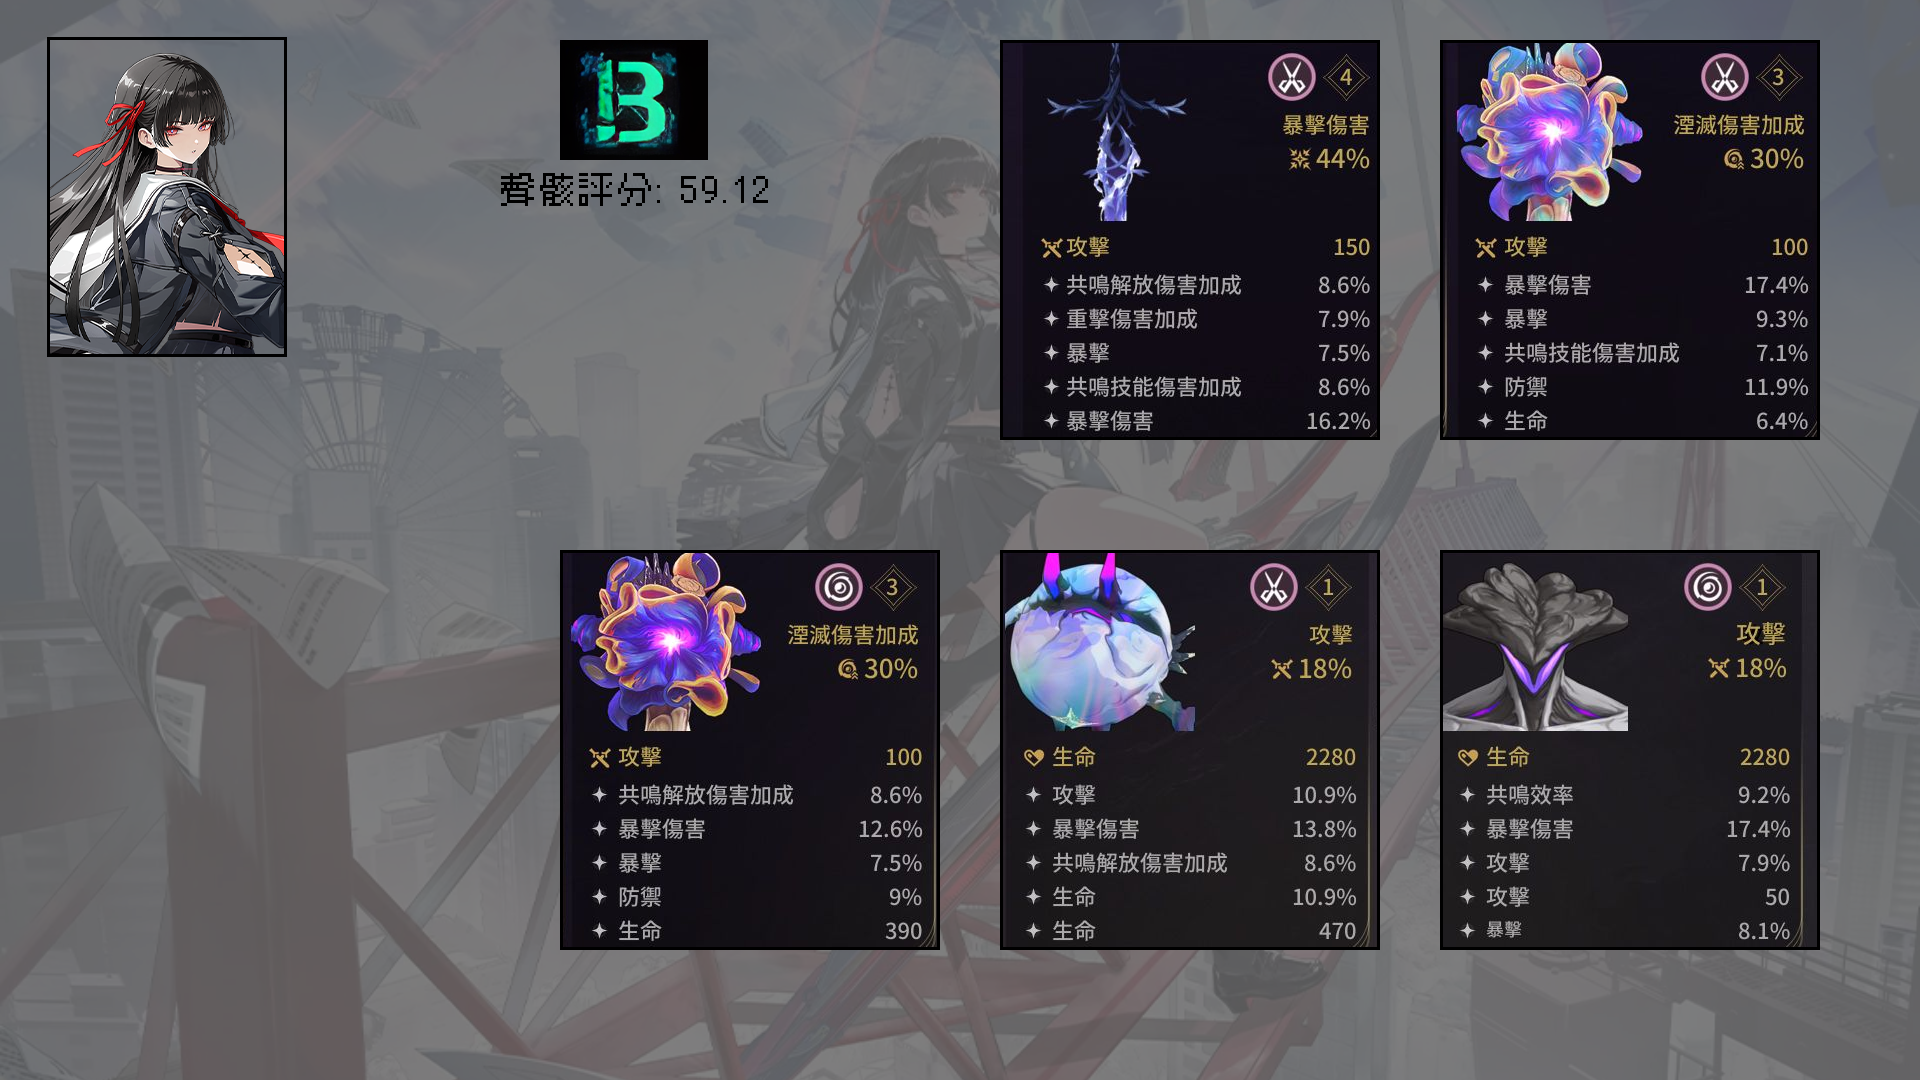
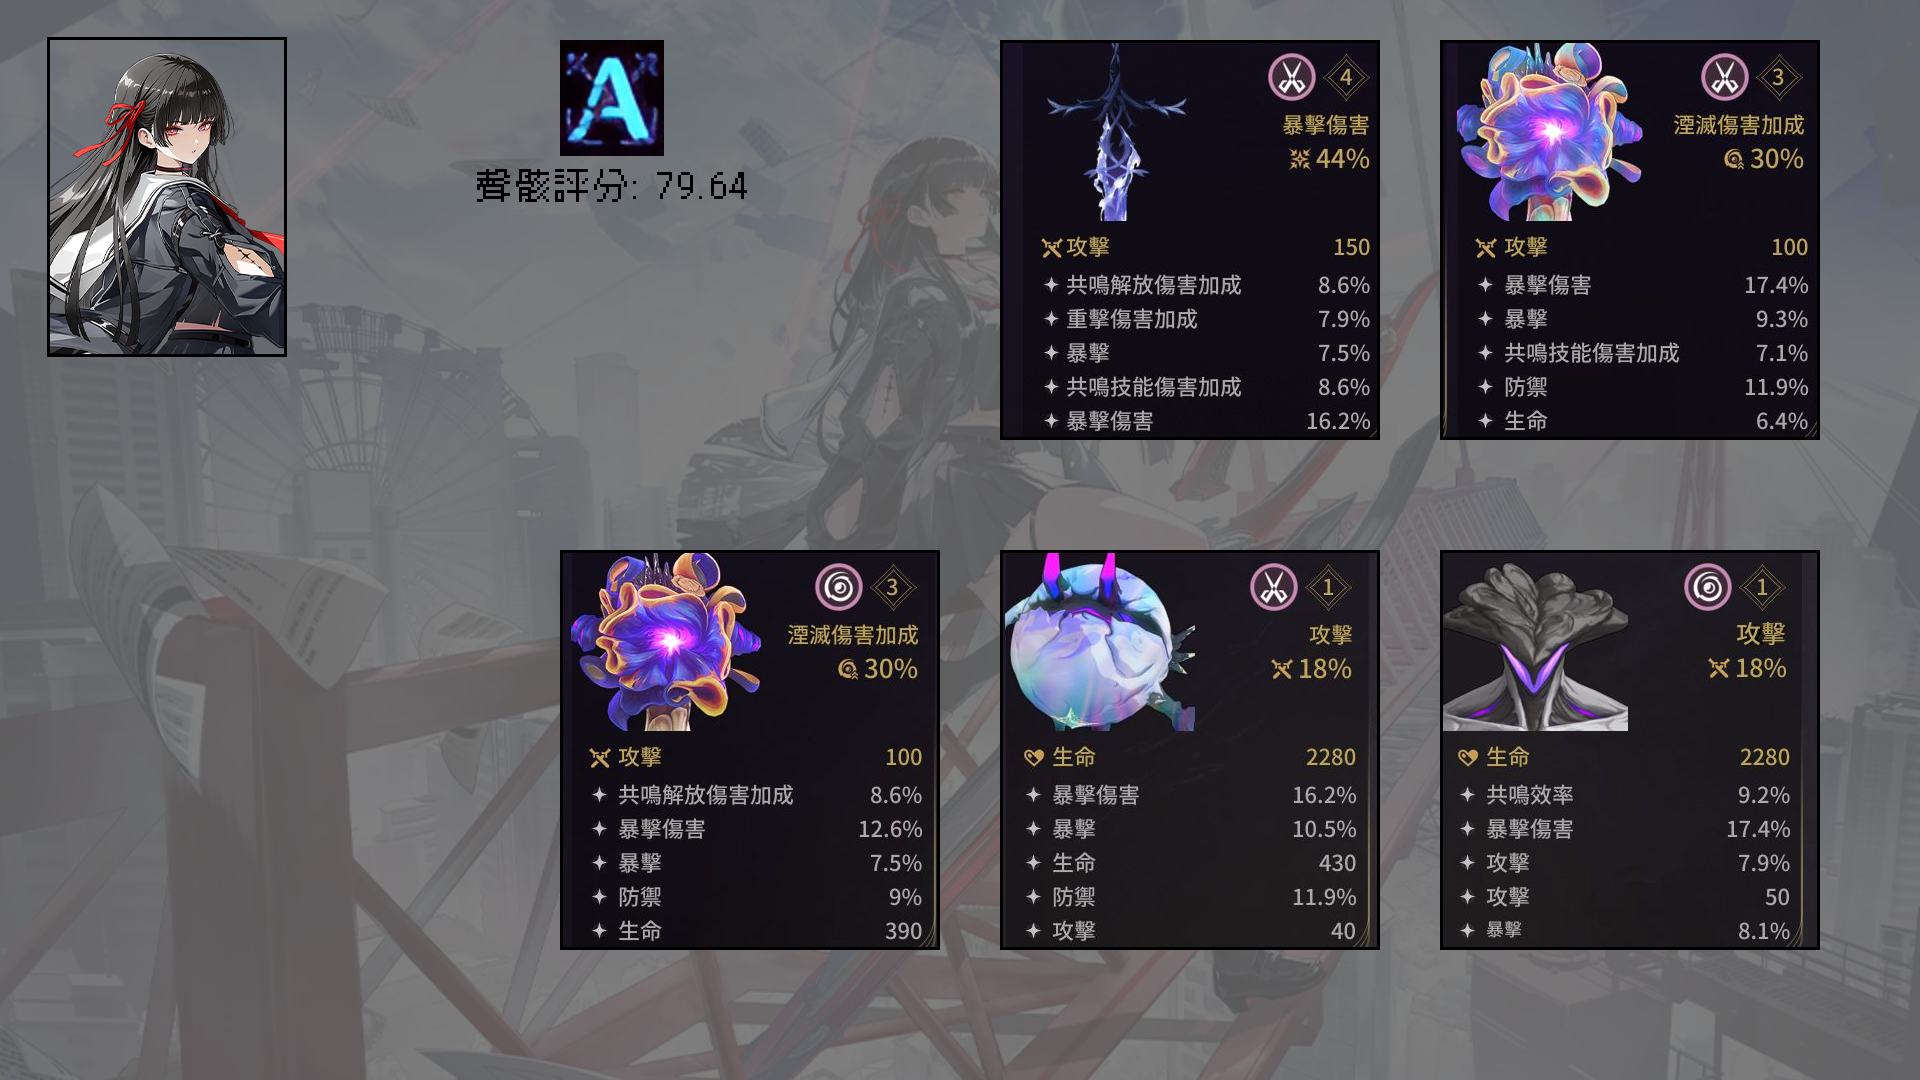
feat: 調整權種數值，拉開攻擊% 與攻擊的差距

diff --git a/backend/parsers/ocr_parser.py b/backend/parsers/ocr_parser.py
@@ -12,12 +12,21 @@ class EchoData:
     static_stat: Stat = field(default_factory=Stat)
     sub_stat: List[Stat] = field(default_factory=list)
 
+
+VALID_STATS = ["暴擊傷害", "暴擊", "攻擊", "生命", "防禦", "共鳴效率", "普攻傷害加成", "共鳴解放傷害加成", "重擊傷害加成", "共鳴技能傷害加成"]
+def normalize(text):
+    for stat in VALID_STATS:
+        if stat in text:
+            return stat
+    return text
+
 PERCENTABLE = ["生命", "攻擊", "防禦"]
 def parse_ocr_output(ocr_result) -> EchoData:
     print("-----------------------------")
     new_echo = EchoData()
     texts = []
     for _, text, prob in ocr_result:
+        text = normalize(text)
         print(f"文字: {text}, 信心指數: {prob:.2f}")
         texts.append(text)
 

diff --git a/backend/generate_result.py b/backend/generate_result.py
@@ -13,7 +13,7 @@ a_score_name = os.path.join(img_path, "A_score.png")
 b_score_name = os.path.join(img_path, "B_score.png")
 
 avatar_namae = os.path.join(img_path, "chisa.png")
-source_name = os.path.join(img_path, "input.png")
+source_name = os.path.join(img_path, "test.png")
 output_path = os.path.join(img_path, "output.png")
 font_path = "../ttf/Cubic_11.ttf"
 character_name = "千咲"
@@ -91,7 +91,8 @@ if __name__ == '__main__':
     rank = get_rank(total_score)
     print(f"{rank}: {total_score}")
     pic = get_rank_pic(rank)
-    pic.thumbnail((380, 400))
+    w, h = pic.size
+    pic = pic.resize((int(w*2), int(h*2)))
     template.paste(pic, (560, 40))
     # set text and font
     text = f"聲骸評分: {total_score:.2f}"
